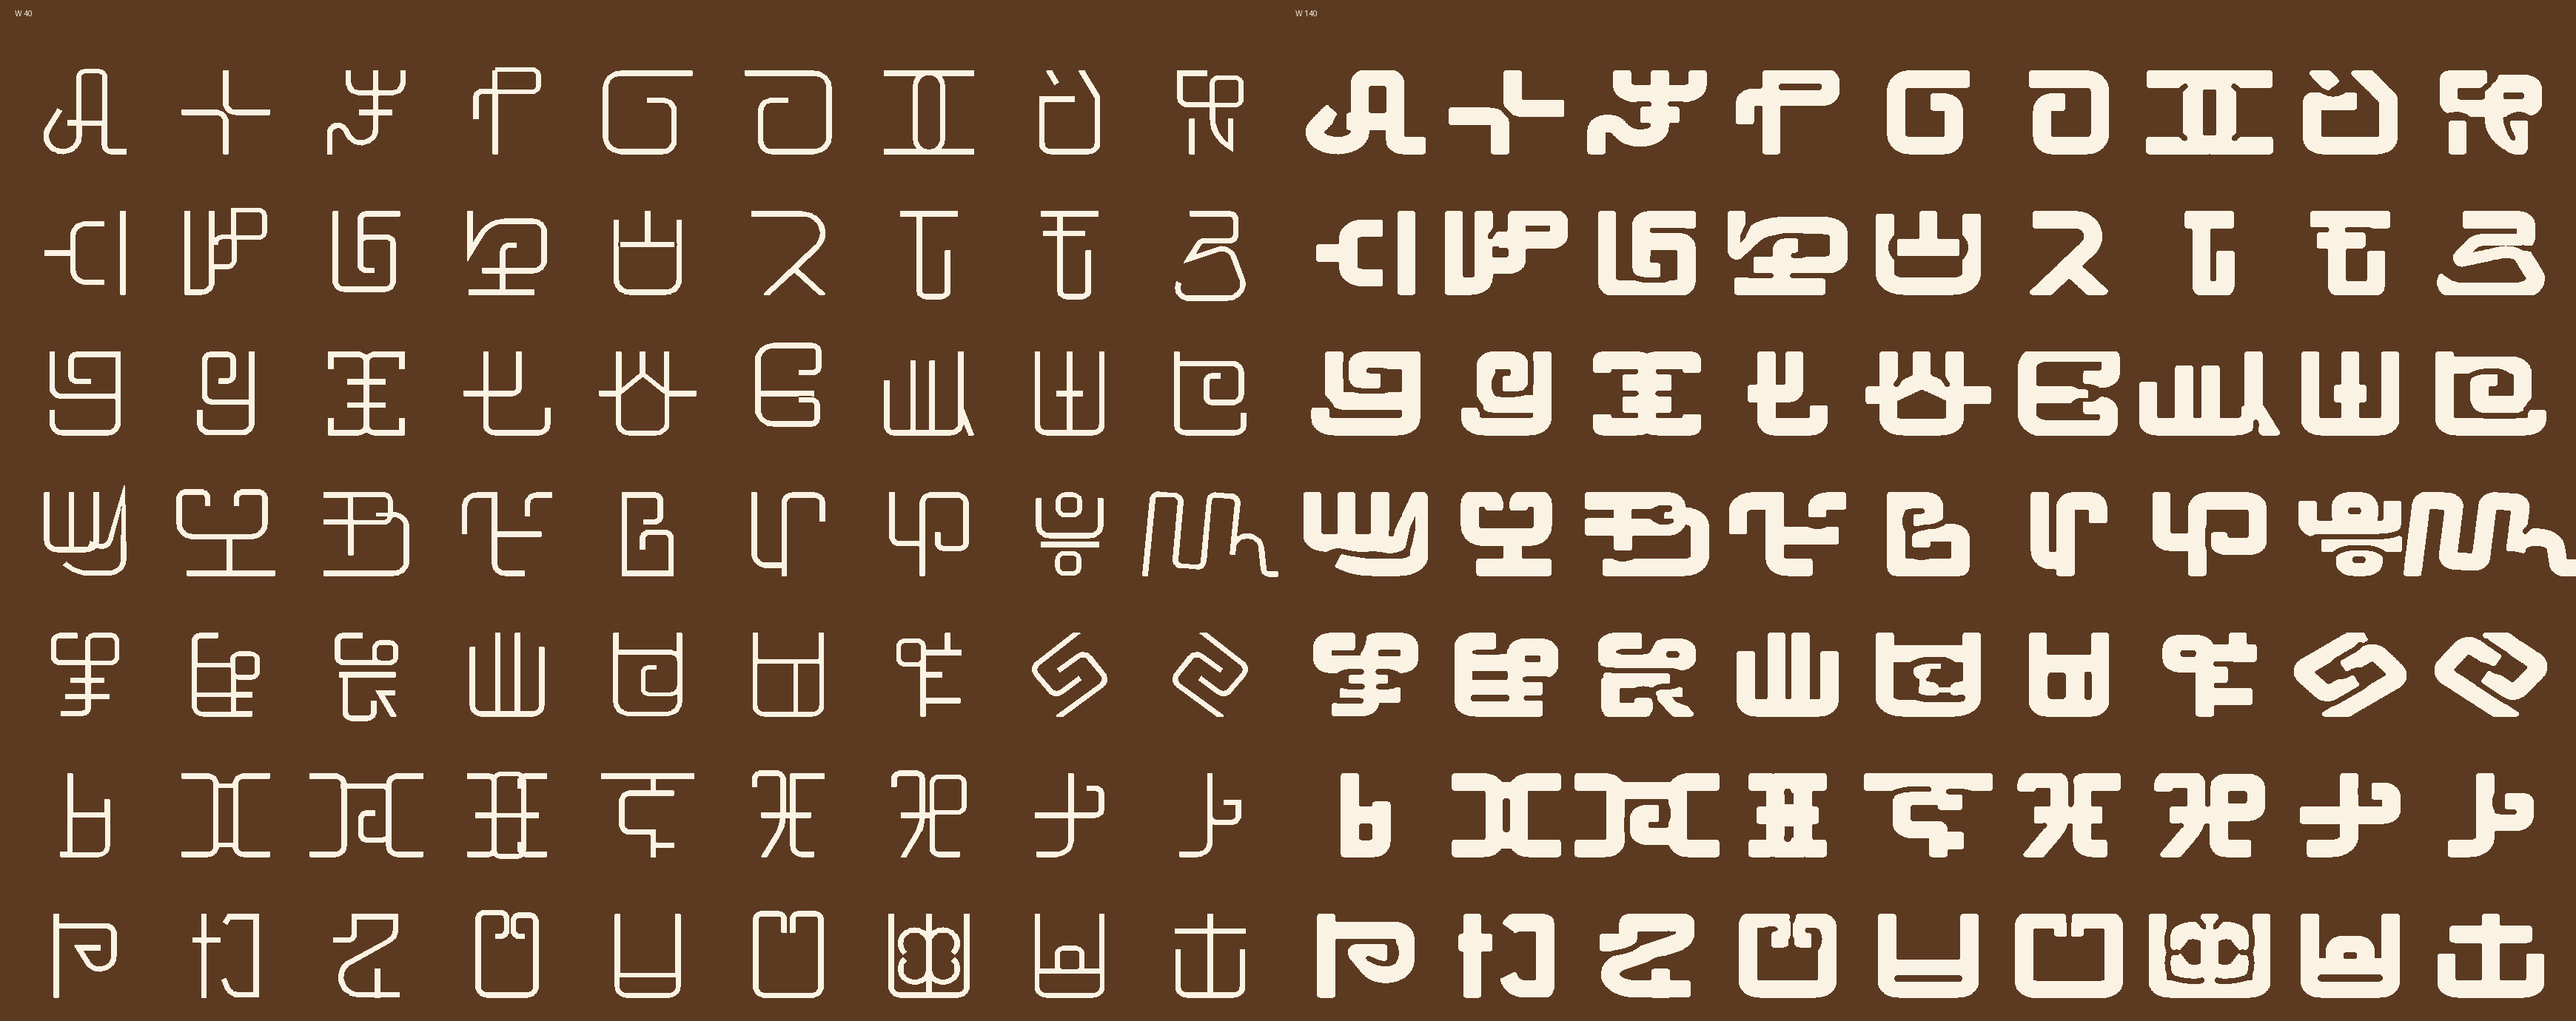
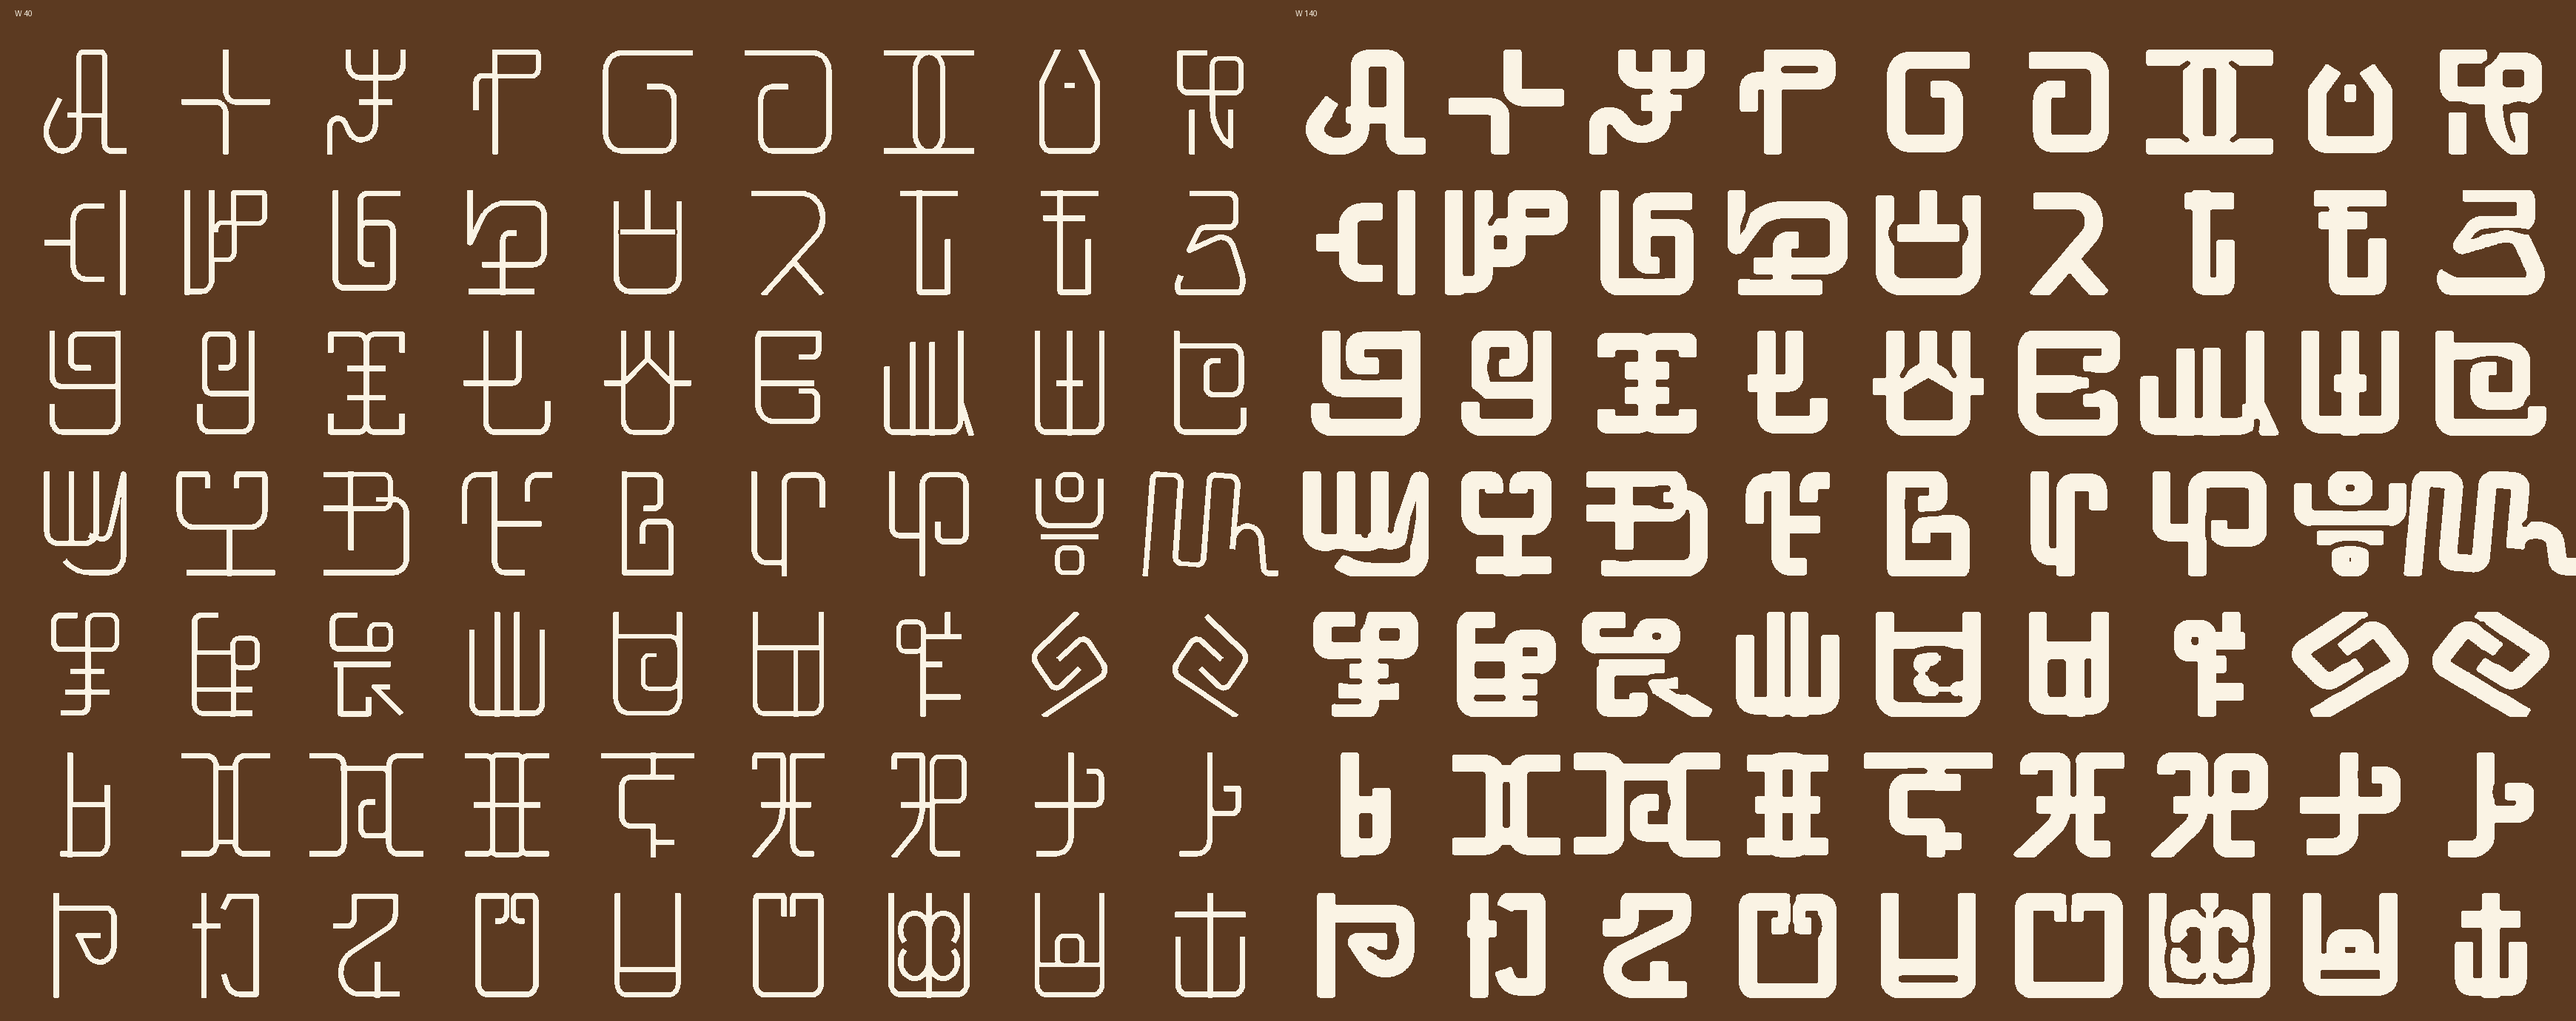
Kɔradin Eyes: body stretched 700 -> 875 (taller x-height, stacked parts get room), bowls flat on the body lines, exact symmetry pass for symmetric glyphs (both masters), Black widths: glyphs with >10% thin skeleton 33 -> 19; 63/63 topology
Claude-Session: https://claude.ai/code/session_01UantNMAVhfM7WEVtYsjyCg

diff --git a/src/eyes2/relax.py b/src/eyes2/relax.py
@@ -2,6 +2,7 @@
 Thin get room for two heavy strokes plus the gap. Strokes keep their shape (every edge vector along a stroke,
 and every junction offset, is held), the glyph may grow wider, the body lines (0 / 700) hold."""
 import math, numpy as np
+from body import H as BH
 from scipy.spatial import cKDTree
 from shapely.geometry import LineString, Polygon, box
 from shapely.ops import unary_union
@@ -20,7 +21,7 @@ def relax(S0, S, sid, strokes, far, W, Wthin, gap, iters=None):
     hw_s = [W / 2 * st.get("wk", 1) for st in strokes]       # one weight for every stroke (monoline)
     hw = np.array([hw_s[i] for i in sid])
     C = np.array([P0[sid == i].mean(axis=0) for i in range(ns)])
-    pinB = P0[:, 1] <= W / 2 + 6; pinT = P0[:, 1] >= 700 - W / 2 - 6
+    pinB = P0[:, 1] <= W / 2 + 6; pinT = P0[:, 1] >= BH - W / 2 - 6
     hasB = np.array([pinB[sid == i].any() for i in range(ns)]); hasT = np.array([pinT[sid == i].any() for i in range(ns)])
     for i in range(ns):                      # strokes standing on a body line scale from that line, and stay on it
         if hasB[i] and not hasT[i]: C[i, 1] = P0[sid == i][:, 1].min()
@@ -32,7 +33,7 @@ def relax(S0, S, sid, strokes, far, W, Wthin, gap, iters=None):
     pr = cKDTree(P0).query_pairs(float(need_all.max()) * 1.6, output_type="ndarray")
     if len(pr): pr = pr[far.M[pr[:, 0], pr[:, 1]]]
     need = need_all[pr[:, 0], pr[:, 1]] if len(pr) else np.zeros(0)
-    pin = (P0[:, 1] <= W / 2 + 6) | (P0[:, 1] >= 700 - W / 2 - 6)
+    pin = (P0[:, 1] <= W / 2 + 6) | (P0[:, 1] >= BH - W / 2 - 6)
     # closed counters of Thin: the samples around each must leave room for two half weights + an eye
     from shapely.geometry import Point
     tink = unary_union([Polygon(st0).buffer(0) for st0 in [st["poly"] for st in far.thin]]) if hasattr(far, "thin") else None
@@ -60,7 +61,7 @@ def relax(S0, S, sid, strokes, far, W, Wthin, gap, iters=None):
         for idx in rings:
             c = Q[idx].mean(axis=0); r.append(4.0 * np.maximum(0, Rneed - np.hypot(*(Q[idx] - c).T)) / W)
         r.append(10.0 * (Q[pin, 1] - P0[pin, 1]) / W)
-        r.append(10.0 * (np.maximum(0, 0.45 * W - Q[:, 1]) + np.maximum(0, Q[:, 1] - (700 - 0.45 * W))) / W)   # stay in the body
+        r.append(10.0 * (np.maximum(0, 0.45 * W - Q[:, 1]) + np.maximum(0, Q[:, 1] - (BH - 0.45 * W))) / W)   # stay in the body
         r.append(np.r_[2.5 * X[:, 0] / W, 3.0 * X[:, 1] / W, (X[:, 2] - 1) * 4, (X[:, 3] - 1) * 4, (X[:, 2] - X[:, 3]) * 4, [(x[-1] - 1) * 1.0]])
         if len(CP): r.append(1.5 * (X[CP[:, 0], 0] - X[CP[:, 1], 0]) / W)
         return np.concatenate(r)
@@ -96,15 +97,16 @@ def relax(S0, S, sid, strokes, far, W, Wthin, gap, iters=None):
         Q = Q.copy()
         for end, nb in ((0, 1), (-1, -2)):            # ends on the body lines: run past, cut flat by the clip
             t = Q[end] - Q[nb]; t = t / (np.hypot(*t) or 1)
-            if abs(t[1]) > 0.2 and (Q[end][1] < W * 0.8 or Q[end][1] > 700 - W * 0.8) and _cut_end(strokes[i], end):
+            if abs(t[1]) > 0.2 and (Q[end][1] < W * 0.8 or Q[end][1] > BH - W * 0.8) and _cut_end(strokes[i], end):
                 Q = np.vstack([Q, Q[-1] + t * W]) if end == -1 else np.vstack([Q[0] + t * W, Q])
         lines.append(Q.tolist())
         polys.append(LineString(Q).buffer(hw_s[i], cap_style=2, join_style=1, quad_segs=8))
-    raw = unary_union(polys).intersection(box(-2000, 0, 3000, 700))
+    raw = unary_union(polys).intersection(box(-2000, 0, 3000, BH))
     return P, raw, lines, alive
 
 def _cut_end(st, end):
     """the original stroke was cut flat on a body line at this end (its polygon reaches 0 or 700 there)"""
+    if "cuts" in st: return st["cuts"][0 if end == 0 else 1]
     cl = np.asarray(st["cl"]); poly = np.asarray(st["poly"]); p = cl[0 if end == 0 else -1]
     near = poly[np.hypot(*(poly - p).T) < 120]
     return len(near) and (np.abs(near[:, 1]).min() < 1.5 or np.abs(near[:, 1] - 700).min() < 1.5)

diff --git a/src/eyes2/engine.py b/src/eyes2/engine.py
@@ -14,6 +14,7 @@ Rule: two parts of a glyph that do not touch in Thin never touch in any weight.
  6. Soft corners: inner radius (closing, before the cuts), outer radius (opening, after: can only remove ink).
 """
 import json, math, sys
+from body import H as BH
 import numpy as np
 from scipy.spatial import Voronoi, cKDTree
 from scipy.sparse import coo_matrix
@@ -196,13 +197,14 @@ def build(strokes, thin, W, Wthin, gap, ro, ri, eye_min=0.55, relax=False, key=N
     if W > Wthin and EXCEPT.get(key) == "rings": far = ring_merge(far, S0, thin)
     far.thin = thin
     raw = unary_union([Polygon(s["poly"]).buffer(0) for s in strokes if len(s["poly"]) >= 3])
-    lines_w = [s["cl"] for s in strokes]
+    lines_w = [s["cl"] for s in strokes]; keep = None
     if relax:
         import relax as RX
         S, raw, lines_w, alive = RX.relax(S0, S, sid, strokes, far, W, Wthin, gap)
         if not alive.all():                       # retracted ends: drop their samples, keep the index map
             keep = np.where(alive)[0]; f0 = far
             far = lambda a, b: f0(keep[a], keep[b]); S = S[keep]
+    else: keep = None
     ink = raw.buffer(ri, quad_segs=8).buffer(-ri, quad_segs=8) if ri > 0.5 else raw
     lines = [l for l in cut_lines(S, far, W / 2 + gap / 2)]
     cut = None
@@ -245,17 +247,17 @@ def build(strokes, thin, W, Wthin, gap, ro, ri, eye_min=0.55, relax=False, key=N
     for k, v in sp.items():
         others = [w for j, w in sp.items() if j != k]
         if others: v = v.difference(unary_union(others).buffer(gap + 0.18 * W))
-        A = A.union(v.intersection(box(-3000, 0, 4000, 700)))
+        A = A.union(v.intersection(box(-3000, 0, 4000, BH)))
     A = unary_union([p for p in polys(A.buffer(0)) if p.area > 0.15 * W * W])   # crumbs left by the cuts
     if W > Wthin: A = finish(A, tink, W, ro)
-    return A.buffer(0), dict(cut=cut, eyes=eyes, raw=raw, S=S, lines=lines, skel=lines_w)
+    return A.buffer(0), dict(cut=cut, eyes=eyes, raw=raw, S=S, lines=lines, skel=lines_w, keep=keep)
 
 def finish(A, tink, W, ro):
     """body lines and symmetry, as read on Thin:
     - a glyph that sits on the baseline and reaches the top in Thin does so in Black, exactly (0 and 700)
     - a glyph that is mirror-symmetric in Thin is made exactly symmetric in Black (kept where both halves agree)"""
     tb = tink.bounds; b = A.bounds
-    lo = 0 if tb[1] < 3 else None; hi = 700 if tb[3] > 697 else None
+    lo = 0 if tb[1] < 3 else None; hi = BH if tb[3] > BH - 3 else None
     if lo is not None or hi is not None:
         y0 = b[1] if lo is None else lo; y1 = b[3] if hi is None else hi
         if b[3] - b[1] > 10 and abs(y0 - b[1]) < 60 and abs(y1 - b[3]) < 60:

diff --git a/src/eyes2/symm.py b/src/eyes2/symm.py
@@ -1,0 +1,32 @@
+"""exact mirror symmetry for the glyphs that are meant to be symmetric: keep one half (the one that keeps every
+part and counter) and mirror it about the best axis; done on both masters"""
+import json, sys, numpy as np
+from shapely.geometry import Polygon, box
+from shapely.ops import unary_union
+from shapely import affinity
+SYM = "do ri ru rɔ rɛ so tu u pu ro su ku de fo te tɛ fu re ka pa".split()
+def geom(ps): return unary_union([Polygon(p[0], p[1:]).buffer(0) for p in ps])
+def polys(g): return [] if g.is_empty else [p for p in (g.geoms if hasattr(g, "geoms") else [g]) if p.geom_type == "Polygon"]
+def axis(g):
+    b = g.bounds; best = (9, (b[0] + b[2]) / 2)
+    for c in np.linspace(b[0] + 0.35 * (b[2] - b[0]), b[2] - 0.35 * (b[2] - b[0]), 81):
+        d = g.symmetric_difference(affinity.scale(g, -1, 1, origin=(c, 0))).area / g.area
+        if d < best[0]: best = (d, c)
+    return best[1]
+def sig(g): return (len(polys(g)), sum(len(p.interiors) for p in polys(g)))
+def mirror_half(g, c, side):
+    b = g.bounds; half = g.intersection(box(b[0] - 10, b[1] - 10, c, b[3] + 10) if side == 0 else box(c, b[1] - 10, b[2] + 10, b[3] + 10))
+    return unary_union([half, affinity.scale(half, -1, 1, origin=(c, 0))]).buffer(0.01).buffer(-0.01)
+def main():
+    R = json.load(open(sys.argv[1]))
+    for k in SYM:
+        Ws = sorted(R, key=float); G = {W: geom(R[W][k]) for W in Ws}
+        for side in (0, 1):
+            out = {W: mirror_half(G[W], axis(G[W]), side) for W in Ws}
+            if len({sig(out[W]) for W in Ws}) == 1 and sig(out[Ws[-1]]) == sig(G[Ws[-1]]) and all(out[W].area > 0.8 * G[W].area for W in Ws): break   # both masters agree, Black keeps its parts and counters
+        else:
+            print(k, "kept as is (no half keeps every part and counter)"); continue
+        for W in Ws: R[W][k] = [[np.round(np.array(p.exterior.coords), 1).tolist()] + [np.round(np.array(r.coords), 1).tolist() for r in p.interiors] for p in polys(out[W])]
+    json.dump(R, open(sys.argv[2], "w"))
+
+if __name__ == "__main__": main()

diff --git a/src/eyes2/stretch.py b/src/eyes2/stretch.py
@@ -1,0 +1,28 @@
+"""stretch every radical vertically (x-height / body taller): centrelines y -> y * f, strokes rebuilt around
+them at the same weight (so horizontals do not get heavier), ends that were cut on 0 / 700 cut on 0 / 700 f"""
+import json, sys, numpy as np
+from shapely.geometry import LineString, box, Polygon, mapping
+import relax as RX
+D = json.load(open(sys.argv[1])); f = float(sys.argv[3]); H = 700 * f
+for k in D["keys"]:
+    for W, strokes in D["G"][k].items():
+        W = float(W); out = []
+        for st in strokes:
+            cuts = [bool(RX._cut_end(st, 0)), bool(RX._cut_end(st, -1))]
+            hw = W / 2 * st.get("wk", 1)
+            Q = np.asarray(st["cl"], float).copy(); Q[:, 1] *= f
+            if len(Q) < 2: continue
+            # Kɔradin clips the glyph to its body: a bowl that dips past a body line runs flat along it
+            Q[:, 1] = np.clip(Q[:, 1], hw, H - hw)
+            keepcl = Q.copy()
+            for end, nb, c in ((0, 1, cuts[0]), (-1, -2, cuts[1])):
+                if not c: continue
+                t = Q[end] - Q[nb]; t = t / (np.hypot(*t) or 1)
+                if abs(t[1]) > 0.2: Q = np.vstack([Q, Q[-1] + t * W]) if end == -1 else np.vstack([Q[0] + t * W, Q])
+            P = LineString(Q).buffer(hw, cap_style=2, join_style=1, quad_segs=8).intersection(box(-3000, 0, 4000, H))
+            P = max((P.geoms if hasattr(P, "geoms") else [P]), key=lambda g: g.area)
+            cl = keepcl
+            out.append(dict(st, cl=cl.round(2).tolist(), poly=np.round(np.array(P.exterior.coords), 2).tolist(), cuts=cuts))
+        D["G"][k][str(int(W))] = out
+D["H"] = H
+json.dump(D, open(sys.argv[2], "w")); print("body", H)

diff --git a/src/eyes2/otf.py b/src/eyes2/otf.py
@@ -24,6 +24,6 @@ for W, name in ((str(min(map(int, R))), "Thin"), (str(max(map(int, R))), "Black"
         cs[gn] = pen.getCharString(); mt[gn] = (adv, 0); order.append(gn); cmap[D["pua"][k]] = gn
     fb.setupGlyphOrder(order); fb.setupCharacterMap(cmap)
     fb.setupCFF("KoradinEyes-" + name, {"FullName": "Koradin Eyes " + name}, cs, {})
-    fb.setupHorizontalMetrics(mt); fb.setupHorizontalHeader(ascent=900, descent=-250)
-    fb.setupNameTable({"familyName": "Koradin Eyes", "styleName": name}); fb.setupOS2(sTypoAscender=900, sTypoDescender=-250, usWinAscent=950, usWinDescent=250); fb.setupPost()
+    fb.setupHorizontalMetrics(mt); fb.setupHorizontalHeader(ascent=1000, descent=-250)
+    fb.setupNameTable({"familyName": "Koradin Eyes", "styleName": name}); fb.setupOS2(sTypoAscender=950, sTypoDescender=-250, usWinAscent=1000, usWinDescent=250); fb.setupPost()
     fb.save(f"{out}/KoradinEyes-{name}.otf"); print(name, len(order) - 2, "glyphs")

diff --git a/src/eyes2/verify.py b/src/eyes2/verify.py
@@ -21,6 +21,7 @@ def check(k, D, W="140", P=None):
     S0, _, sid = engine.samples(thin, thin)
     tink = unary_union([Polygon(s["poly"]).buffer(0) for s in thin])
     lt, Gt = comp_labels(tink, S0, 25); lh, Gh = comp_labels(g, dbg["S"], 90)
+    if dbg.get("keep") is not None: lt = lt[dbg["keep"]]
     issues = []
     for c in set(lh) - {-1}:
         ts = set(lt[lh == c]) - {-1}

diff --git a/src/eyes2/body.py b/src/eyes2/body.py
@@ -1,0 +1,3 @@
+"""body height of Kɔradin Eyes: Kɔradin's 0..700 body, stretched up (EYES_H) to give stacked parts room"""
+import os
+H = float(os.environ.get("EYES_H", 700))

diff --git a/fonts/kradin-eyes/README.md b/fonts/kradin-eyes/README.md
@@ -1,0 +1,10 @@
+# Kɔradin Eyes (63 radicals, Thin + Black)
+
+Pipeline (src/eyes2), run in this order:
+1. `dump.js 40,140 rad.json skeleton-override.json` (stroke data from the lab, with the skeleton pass applied)
+2. `transform.py` skeleton pass: spirals re-spaced and drawn arc-line-arc-line, right-angle turns squared, hairpins opened when Thin topology allows
+3. `stretch.py rad.json rad4.json 1.25` body 700 -> 875 (taller x-height: room for stacked parts), bowls that dip past a body line run flat on it
+4. `EYES_H=875 engine.py` Thin and Black: topology read on Thin, enforced on Black (relax, cuts, eyes, spines, body lines)
+5. `symm.py` exact mirror symmetry for the glyphs meant to be symmetric
+6. `verify.py` (parts never merge or break, counters kept), `widths.py` (stroke width consistency), `otf.py`
+`anatomy.py` writes anatomy.json / anatomy.png (parts, terminals, junctions, counters read on Thin).
